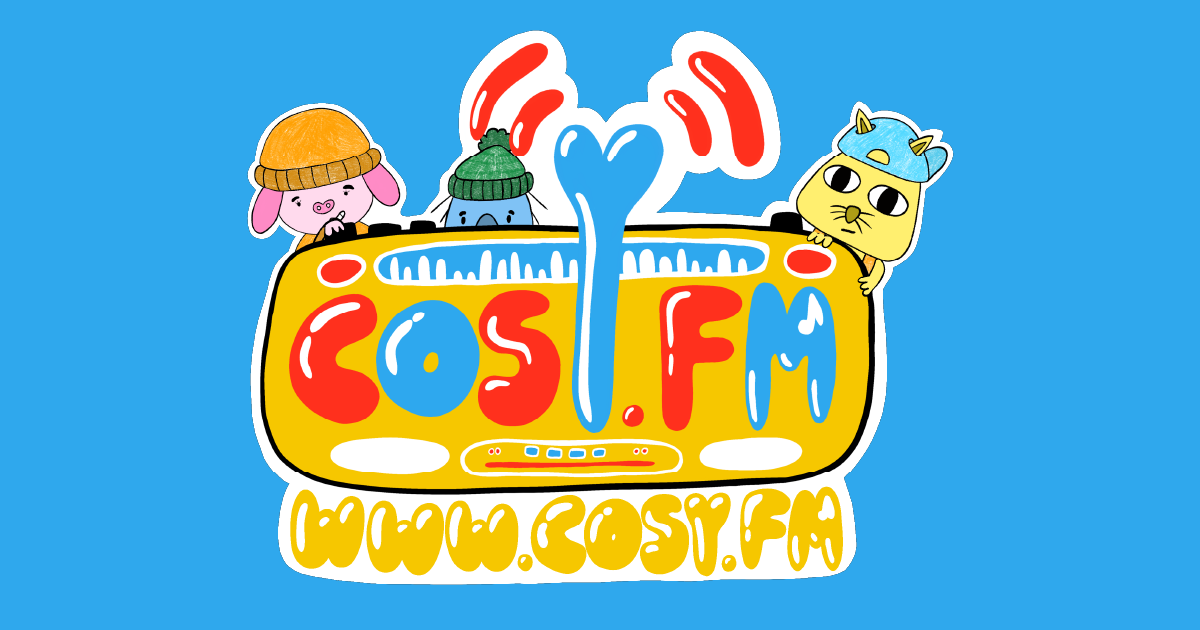
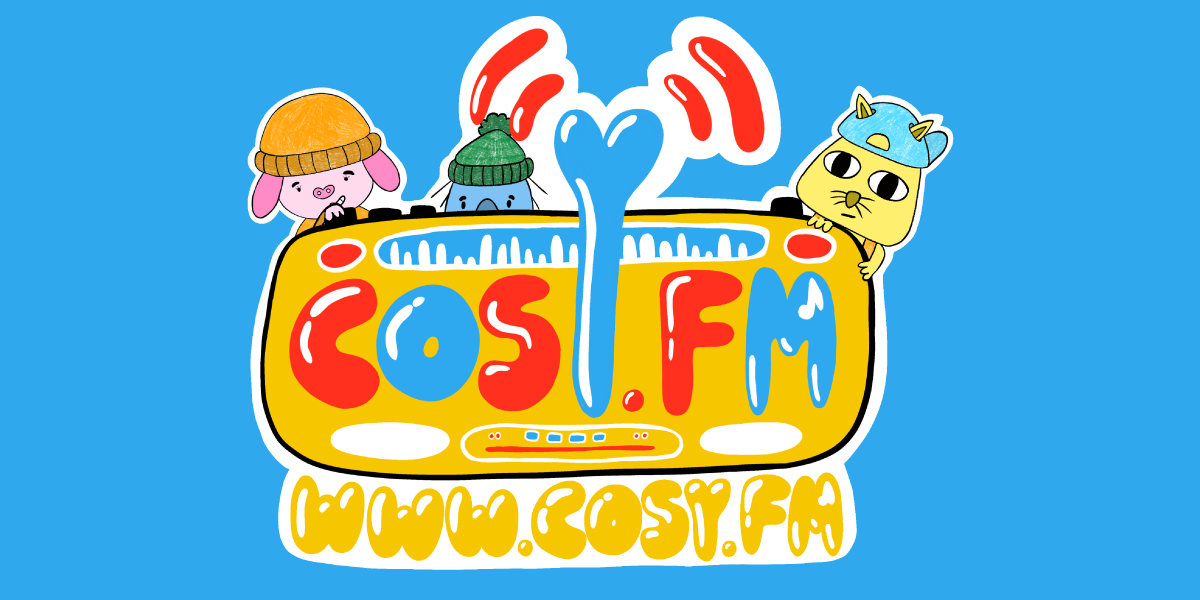
fix og height

diff --git a/index.html b/index.html
@@ -18,7 +18,7 @@
     <meta property="og:description" content="An upcoming public streaming service allowing creators and audiences to enjoy the growing worlds of undiscovered music and podcasts. Coming 2022.">
     <meta property="og:type" content="website">
     <meta property="og:image" content="https://cosy-land.github.io/img/opengraph.png">
-    <meta property="og:image:width" content="1200" /><meta property="og:image:height" content="630" />
+    <meta property="og:image:width" content="1200" /><meta property="og:image:height" content="600" />
     <script async src="https://www.googletagmanager.com/gtag/js?id=G-6RR2NYS9PC"></script>
     <script>
     window.dataLayer = window.dataLayer || [];
